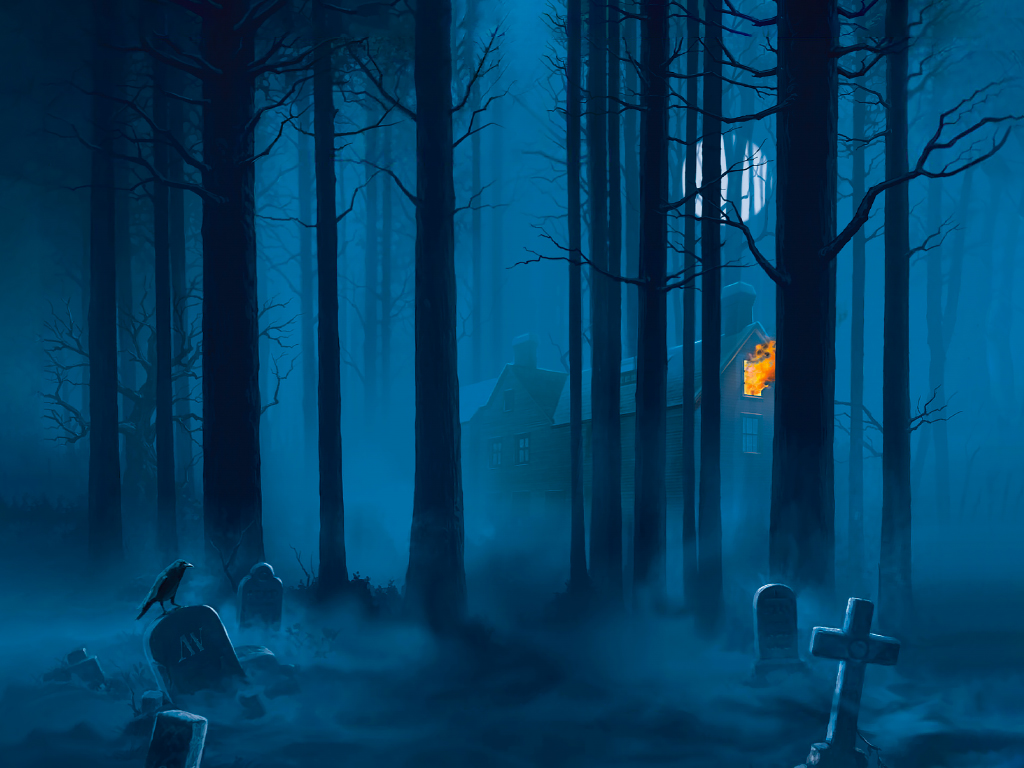
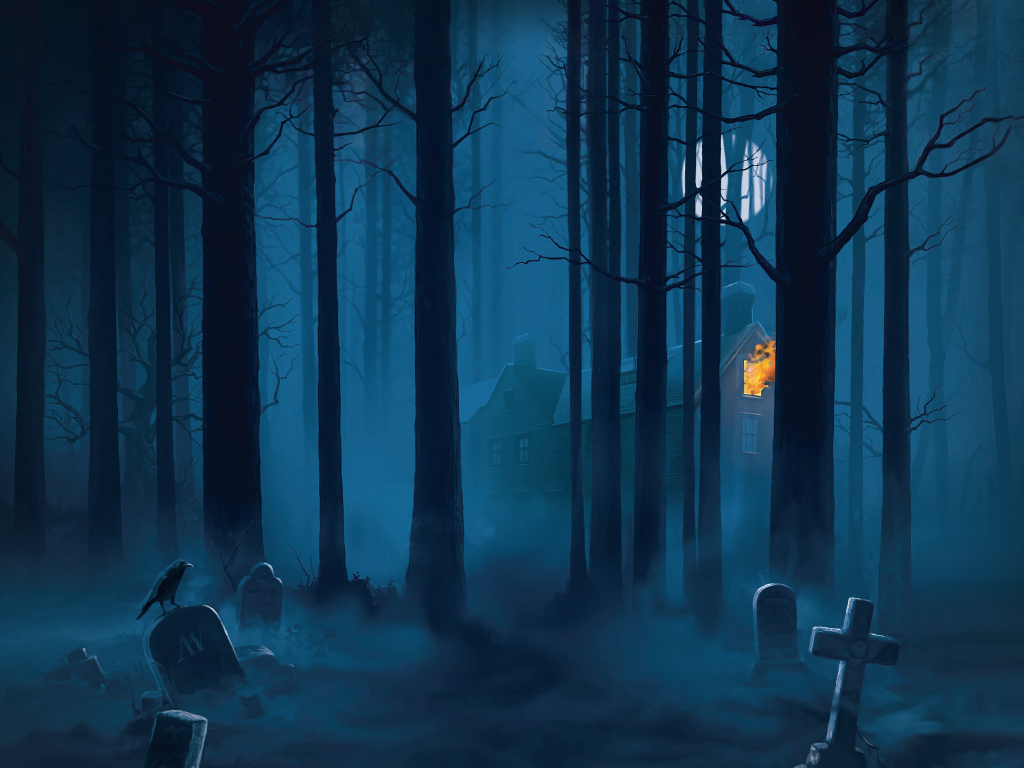
Night lightning Beta

diff --git a/Ciftree/s2625.js b/Ciftree/s2625.js
@@ -23,6 +23,7 @@ function s2625() {
         cursor: "UseInventory",
         OnUp: function() {
             missing.play();
+            Flags.Night_FL = (Flags.Night_FL) ? false : true;
         }
     });
     return [sum, backNAV, lookNAV];
